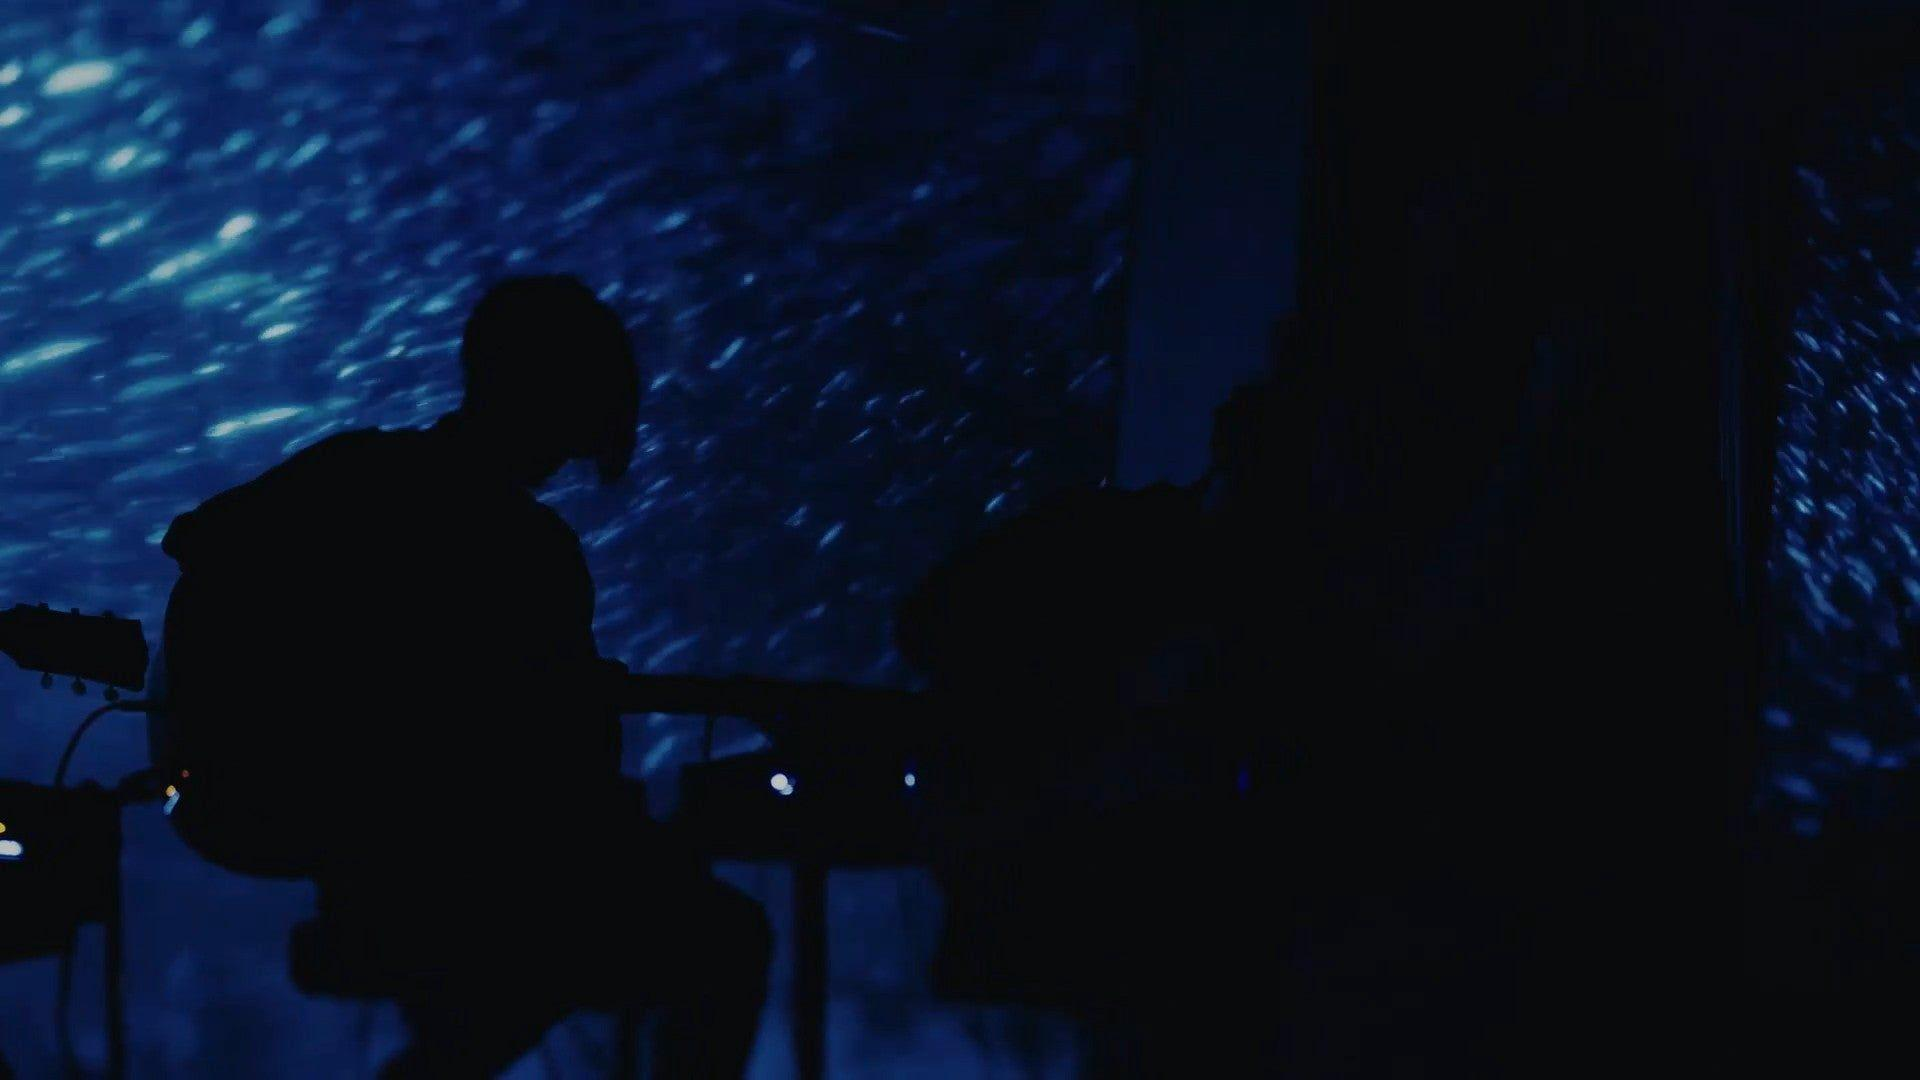
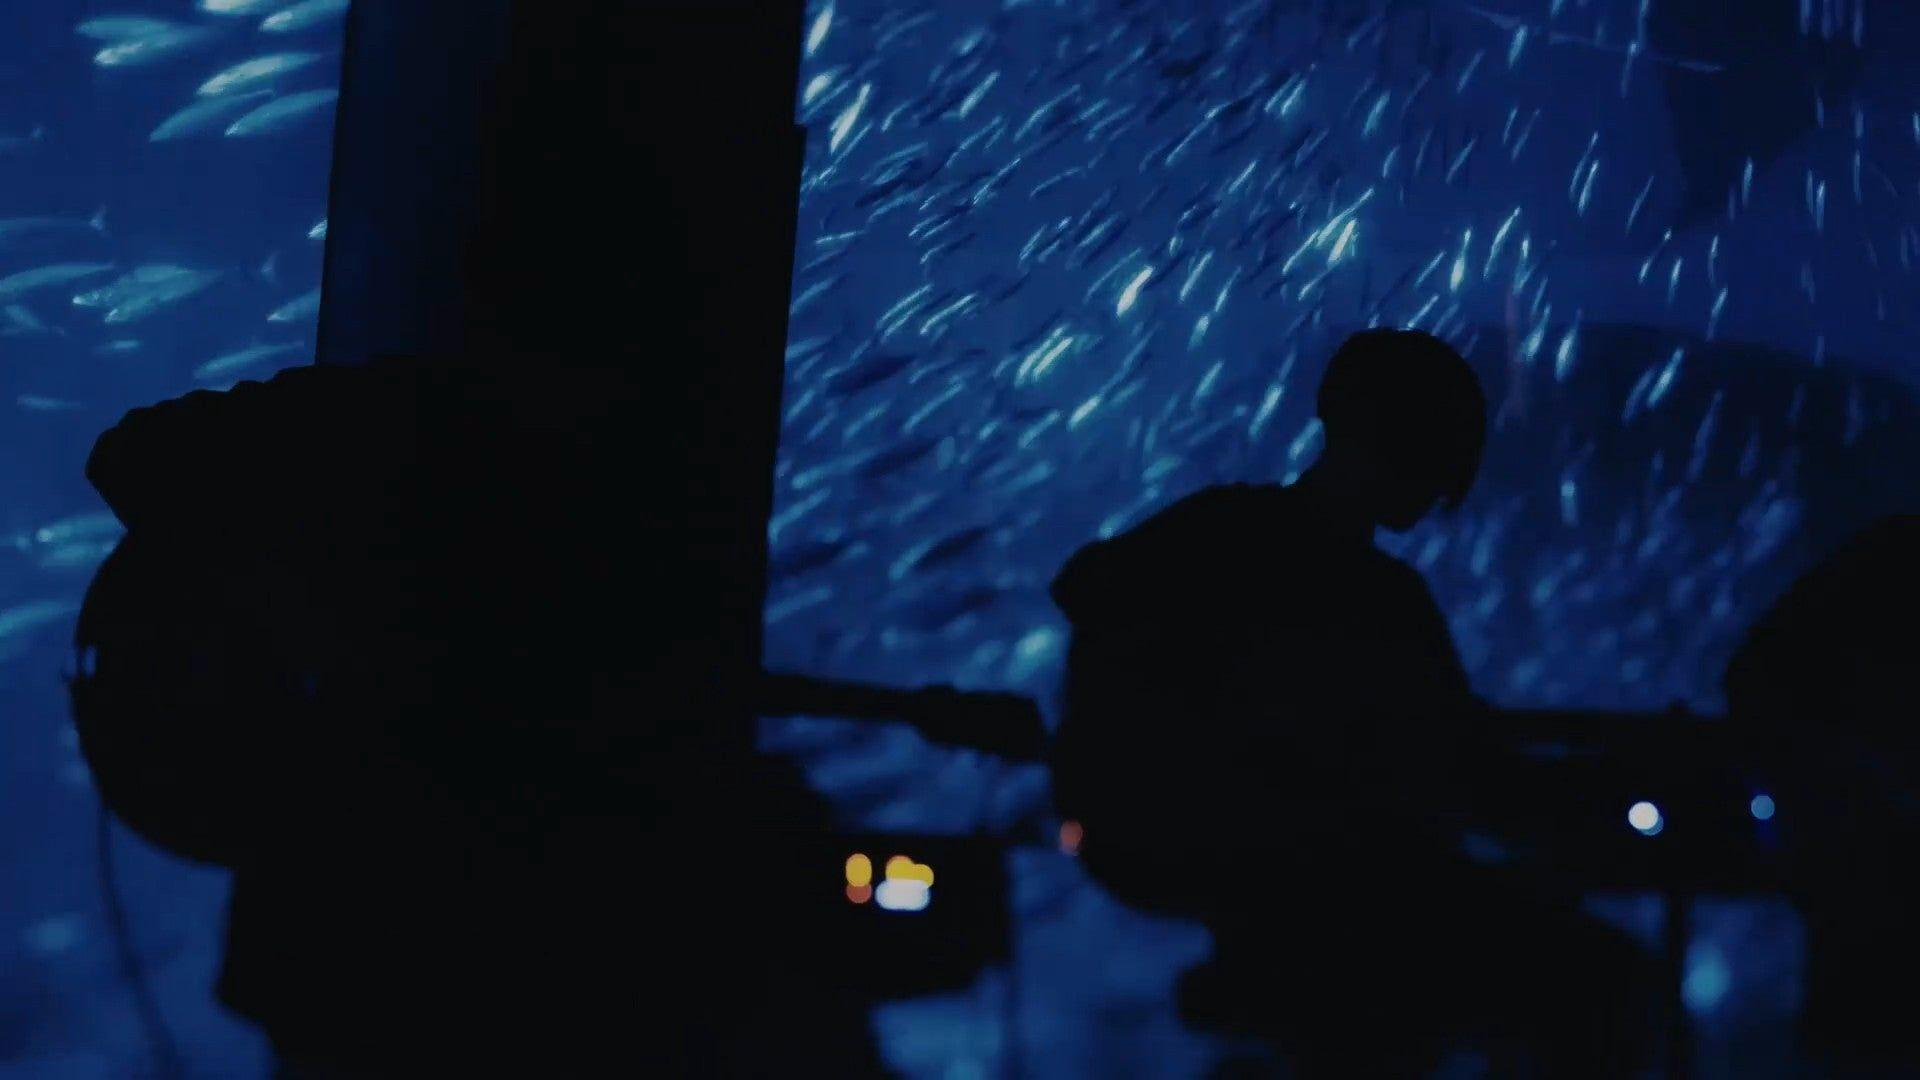
ダークモードと英語版を実装

diff --git a/index_night.html b/index_night.html
@@ -1,14 +1,14 @@
 <!DOCTYPE html>
-<html lang="en">
+<html lang="ja">
   <head>
     <meta charset="UTF-8">
-    <title>Yorushika</title>
-    <link rel="stylesheet" type="text/css" href="css/index.css">
+    <title>ヨルシカ紹介サイト</title>
+    <link rel="stylesheet" type="text/css" href="css/night.css">
     <script src="https://ajax.googleapis.com/ajax/libs/jquery/3.5.1/jquery.min.js"></script>
     <script defer src="javascript/index.js"></script>
   </head>
 
-  <body id="HOME">
+  <body id="HOME-Night">
     <div id="Home-container">
       <div class="nav-right visible-xs">
         <div class="button" id="btn">
@@ -43,22 +43,25 @@
       
       <div class="sidebar">
         <ul class="sidebar-list">
-          <li class="sidebar-item"><a href="index_Eng.html" class="sidebar-anchor">HOME</a></li>
-          <li class="sidebar-item"><a href="About_Eng.html" class="sidebar-anchor">ABOUT</a></li>
-          <li class="sidebar-item"><a href="Member_Eng.html" class="sidebar-anchor">MEMBER</a></li>
-          <li class="sidebar-item"><a href="Songs_Eng.html" class="sidebar-anchor">SONGS</a></li>
+            <li class="sidebar-item"><a href="index_night.html" class="sidebar-anchor">HOME</a></li>
+            <li class="sidebar-item"><a href="About.html" class="sidebar-anchor">ABOUT</a></li>
+            <li class="sidebar-item"><a href="Member.html" class="sidebar-anchor">MEMBER</a></li>
+            <li class="sidebar-item"><a href="Songs.html" class="sidebar-anchor">SONGS</a></li>
         </ul>
       </div>
 
-      <a href="index.html" class="btn-img"><img src="images/cJrLxlotBmKi35y1718947033_1718947039.png" id="yorushika_icon"></a>
+      <a href="index.html" class="btn-img"><img src="images/yorushika_icon2.png" id="yorushika_icon"></a>
       <div class="Language">
-        <a href="index.html" id="hover-link">日本語</a>
+        <a href="index_night_Eng.html" id="hover-link">English</a>
+        <!-- <a href="index_Eng.html" id="hover-link">English</a><a href="index.html" id="hover-link">日本語</a> -->
       </div>
       <div class="button">
-        <a href="/index_night_Eng.html" class="button-link bg-extend-left">
-          <span class="button-text">Dark Mode</span>
+        <a href="/index.html" class="button-link bg-extend-left">
+          <span class="button-text">Light Mode</span>
         </a>
       </div>
+      
+      <script src="https://cdn.jsdelivr.net/npm/darkmode-js@1.3.4/lib/darkmode-js.min.js"></script>
 
       <div id="news">
         <header id="news_header">NEWS</header>
@@ -66,19 +69,19 @@
             <li>
               <a href="https://www.creephyp.com/feature/tribute_AL" id="hover-link">
                 <p class="date">2024.07.01</p>
-                <p class="tit">Yorushika will participate in Creephyp's tribute album.</p>
+                <p class="tit">クリープハイプのトリビュートアルバムにヨルシカの参加が決定。</p>
               </a>
             </li>
             <li>
               <a href="https://www.ntv.co.jp/gohome/" id="hover-link">
                 <p class="date">2024.06.30</p>
-                <p class="tit">Yorushika sings the theme song for NTV's new drama "GO HOME".</p>
+                <p class="tit">新ドラマ「GO HOME~警視庁身元不明人相談室 ~」主題歌をヨルシカが担当。</p>
               </a>
             </li>
             <li>
               <a href="https://natalie.mu/music/pp/suis" id="hover-link">
                 <p class="date">2024.06.28</p>
-                <p class="tit">Music Natalie has an interview with suis.</p>
+                <p class="tit">音楽ナタリーにsuisのインタビューが掲載。</p>
               </a>
           </li>
         </ul>

diff --git a/css/night.css b/css/night.css
@@ -1,5 +1,5 @@
-#HOME{
-    background: url(/images/light.png) center center / cover no-repeat fixed;
+#HOME-Night{
+    background: url(/images/night.jpg) center center / cover no-repeat fixed;
 }
 
 /* <sidebar> */
@@ -170,107 +170,10 @@ nav {
     }
 }
 
-/* .loader {
-  position: fixed;
-  width: 100%;
-  height: 100%;
-  background-color: #fff;
-  z-index: 555;
-  top: 0;
-  left: 0;
-  display: flex;
-  justify-content: center;
-  align-items: center;
-}
-
-.loader .txt {
-  font-size: 45px;
-  font-weight: bold;
-  color: rgb(30, 50, 93);
-  display: none;
-}
-
-.loader .looping-rhombuses-spinner{
-  display: none;
-} */
-
-/* -sidebar- */
-
-/* .include-accordion ul{
-    height: 0;
-    padding: 0;
-    overflow: hidden;
-    margin: 0;
-}
-
-.include-accordion ul li{
-    border-bottom: 1px dotted gray;
-    padding: 10px 0 10px 10px;
-    margin-left:15px;
-}
-
-button{
-  position: sticky;
-  border: none;
-  width: 100%;
-  background-color: inherit;
-  cursor: pointer;
-  text-align: left;
-  padding: 15px 0 15px 20px;
-  font-size:1em;
-}
-
-button:hover{
-  color: gray;
-}
-
-button::before,
-button::after{
-  content:"";
-  position: absolute;
-  top: 20px;
-  width: 1.5px;
-  height: 8px;
-  background-color: #fff;
-  transition: .5s;
-}
-
-button::before{
-  transform: rotate(-45deg);
-  right: 35px;
-}
-
-button::after{
-  transform: rotate(45deg);
-  right: 30px;
-}
-
-li.active button::before{
-  transform: rotate(-135deg);
-  transition:.5s;
-}
-
-li.active button::after{
-  transform: rotate(135deg);
-  transition:.5s;
-}
-
-ul.active{ overflow-y: auto; }
-
-ul:nth-of-type(1) li.active li:last-child{
-  border-bottom:1px solid #67a863; 
-} 
-
-ul:nth-of-type(2){ background-color: #357D87; }
-ul:nth-of-type(2) ul{ background-color: #519FA5; border-top: 1px solid #5D9FA8; }
-ul:nth-of-type(2) button:hover{ background-color: #1C4B56; }
-ul:nth-of-type(2) li li{ border-bottom: 1px dotted #73BEBF; }
-ul:nth-of-type(2) li.active li:last-child{ border-bottom:1px solid #5D9FA8; } */
-
 .bg-extend-left {
     padding: 5px;
-    border: 2px solid #333;
-    color: #333;
+    border: 2px solid rgb(165, 165, 165);
+    color: rgb(165, 165, 165);
     text-decoration: none;
     font-family: sans-serif;
     overflow: hidden;
@@ -284,7 +187,7 @@ ul:nth-of-type(2) li.active li:last-child{ border-bottom:1px solid #5D9FA8; } */
     content: '';
     width: 100%;
     height: 100%;
-    background-color: #3b78c8;
+    background-color: #fff;
     overflow: hidden;
     position: absolute;
     left: -100%;
@@ -301,7 +204,7 @@ ul:nth-of-type(2) li.active li:last-child{ border-bottom:1px solid #5D9FA8; } */
     position: fixed;
     width: 100%;
     height: 100%;
-    background-color: #fff;
+    background-color: #0d4894;
     z-index: 555;
     top: 0;
     left: 0;
@@ -325,16 +228,18 @@ ul:nth-of-type(2) li.active li:last-child{ border-bottom:1px solid #5D9FA8; } */
     bottom: 0px;
     right: 0px;
     border-top: black;
+    color: white;
 }
 
 #news header{
     margin-left: 8%;
     font-size: 150%;
+    color: white;
 }
 
 #news a{
   text-decoration: none;
-  color: black;
+  color: white;
 }
 
 #news li{
@@ -356,28 +261,26 @@ ul:nth-of-type(2) li.active li:last-child{ border-bottom:1px solid #5D9FA8; } */
 .Language a{
     text-decoration: none;
     font-family: sans-serif;
-    color: black;
+    color: rgb(165, 165, 165);
     position: fixed;
     bottom: 1%;
     left: 10%;
 }
 
 /* .Language ul{
-    display: flex;
+    display: inline-block;
 }
 
 .Language ul li{
     list-style: none;
     font-family: sans-serif;
+    display: flex;
 } */
 
 #n-buna {
   width: 250px;
 }
 
-#suis{
-    width: 250px;
-}
 
 #Member-container {
   display: flex;

diff --git a/index_night_Eng.html b/index_night_Eng.html
@@ -1,14 +1,14 @@
 <!DOCTYPE html>
-<html lang="en">
+<html lang="ja">
   <head>
     <meta charset="UTF-8">
-    <title>Yorushika</title>
-    <link rel="stylesheet" type="text/css" href="css/index.css">
+    <title>ヨルシカ紹介サイト</title>
+    <link rel="stylesheet" type="text/css" href="css/night.css">
     <script src="https://ajax.googleapis.com/ajax/libs/jquery/3.5.1/jquery.min.js"></script>
     <script defer src="javascript/index.js"></script>
   </head>
 
-  <body id="HOME">
+  <body id="HOME-Night">
     <div id="Home-container">
       <div class="nav-right visible-xs">
         <div class="button" id="btn">
@@ -43,22 +43,25 @@
       
       <div class="sidebar">
         <ul class="sidebar-list">
-          <li class="sidebar-item"><a href="index_Eng.html" class="sidebar-anchor">HOME</a></li>
-          <li class="sidebar-item"><a href="About_Eng.html" class="sidebar-anchor">ABOUT</a></li>
-          <li class="sidebar-item"><a href="Member_Eng.html" class="sidebar-anchor">MEMBER</a></li>
-          <li class="sidebar-item"><a href="Songs_Eng.html" class="sidebar-anchor">SONGS</a></li>
+            <li class="sidebar-item"><a href="index_night_Eng.html" class="sidebar-anchor">HOME</a></li>
+            <li class="sidebar-item"><a href="About.html" class="sidebar-anchor">ABOUT</a></li>
+            <li class="sidebar-item"><a href="Member.html" class="sidebar-anchor">MEMBER</a></li>
+            <li class="sidebar-item"><a href="Songs.html" class="sidebar-anchor">SONGS</a></li>
         </ul>
       </div>
 
-      <a href="index.html" class="btn-img"><img src="images/cJrLxlotBmKi35y1718947033_1718947039.png" id="yorushika_icon"></a>
+      <a href="index.html" class="btn-img"><img src="images/yorushika_icon2.png" id="yorushika_icon"></a>
       <div class="Language">
-        <a href="index.html" id="hover-link">日本語</a>
+        <a href="index_night.html" id="hover-link">日本語</a>
+        <!-- <a href="index_Eng.html" id="hover-link">English</a><a href="index.html" id="hover-link">日本語</a> -->
       </div>
       <div class="button">
-        <a href="/index_night_Eng.html" class="button-link bg-extend-left">
-          <span class="button-text">Dark Mode</span>
+        <a href="/index_Eng.html" class="button-link bg-extend-left">
+          <span class="button-text">Light Mode</span>
         </a>
       </div>
+      
+      <script src="https://cdn.jsdelivr.net/npm/darkmode-js@1.3.4/lib/darkmode-js.min.js"></script>
 
       <div id="news">
         <header id="news_header">NEWS</header>

diff --git a/index.html b/index.html
@@ -52,9 +52,14 @@
 
       <a href="index.html" class="btn-img"><img src="images/cJrLxlotBmKi35y1718947033_1718947039.png" id="yorushika_icon"></a>
       <div class="Language">
-        <a href="index_Eng.html" id="hover-link">English</a><a href="index.html" id="hover-link">日本語</a>
+        <a href="index_Eng.html" id="hover-link">English</a>
       </div>
-      
+      <div class="button">
+        <a href="/index_night.html" class="button-link bg-extend-left">
+          <span class="button-text">Dark Mode</span>
+        </a>
+      </div>
+
       <div id="news">
         <header id="news_header">NEWS</header>
           <ul>

diff --git a/JavaScript/index.js b/JavaScript/index.js
@@ -45,7 +45,6 @@ $(function() {
   });
 });
 
-
 // $(function(){
 //   function end_loader() {
 //     $('#loader03').fadeOut(800);
